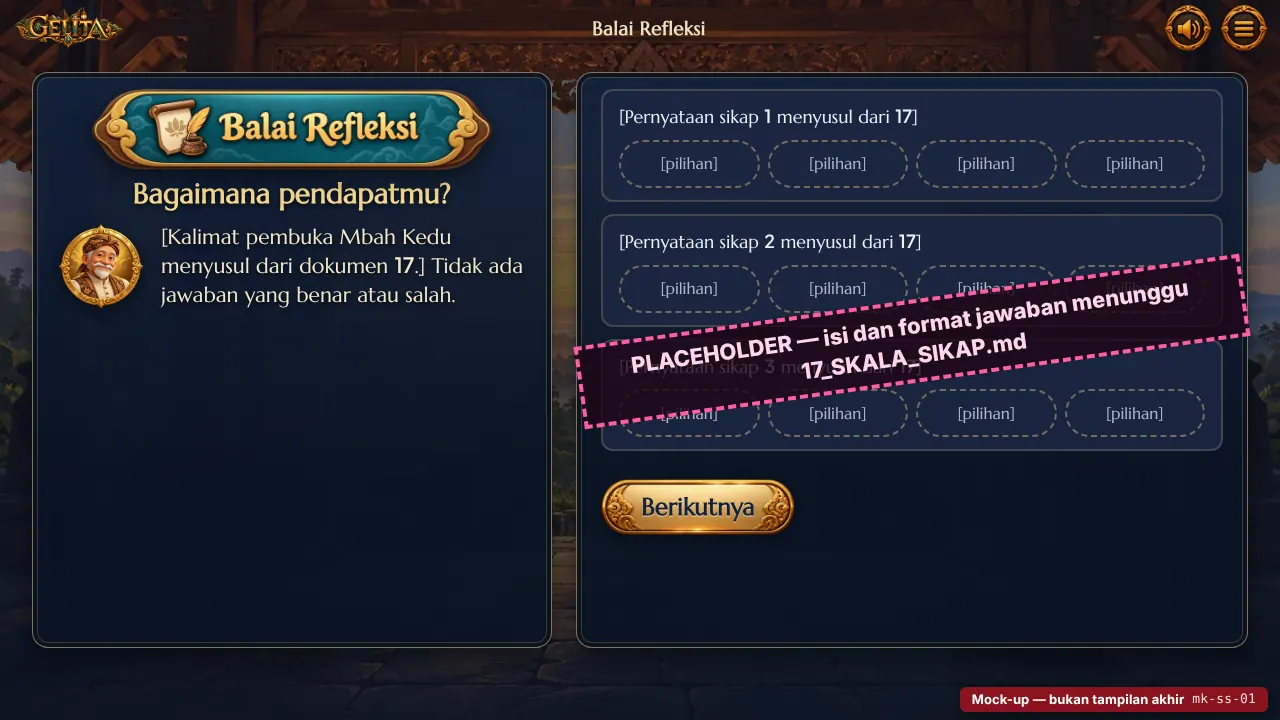
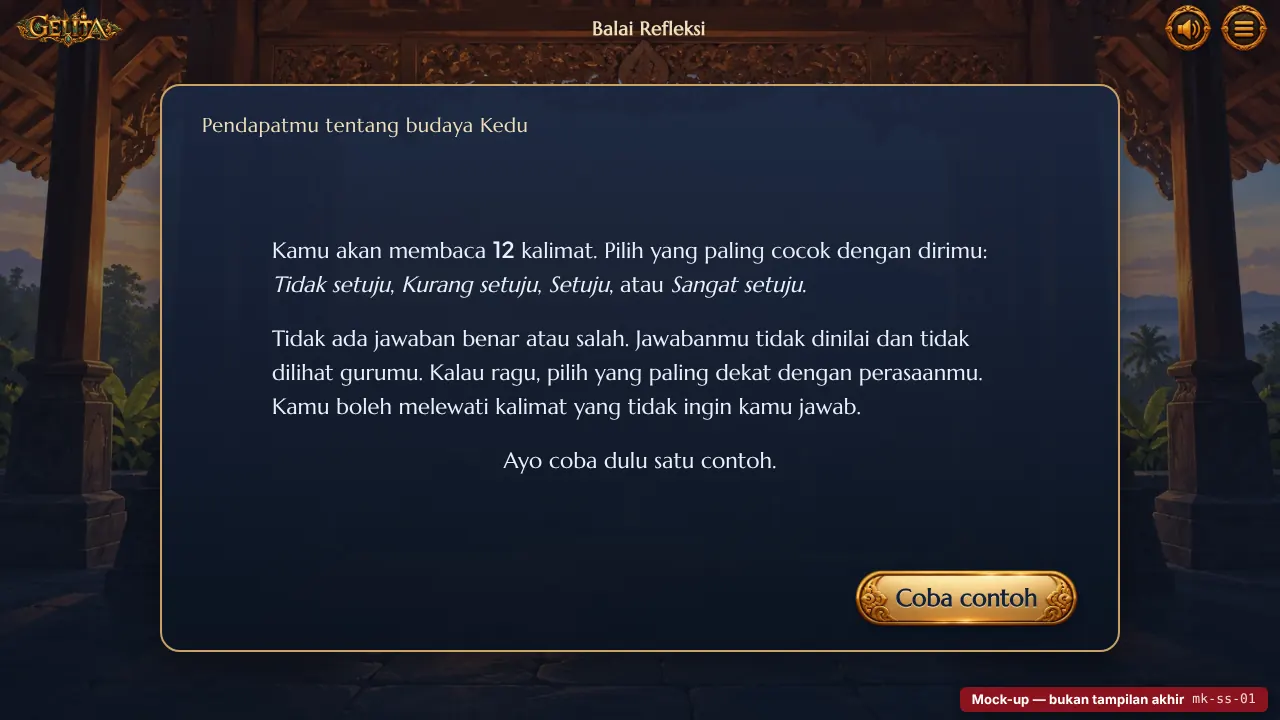
Redraw the attitude-scale mock-up from 17 (mk-ss-01 to mk-ss-04)
17 is merged, so the placeholder becomes four screens in its format:
instructions, the practice item skp-ct-01, statement skp-03 with the
four dotted choices and the bronze progress bar, and the send screen.
18 describes them (26 pictures now); 00, 01, 03, 04, PROGRESS updated.

diff --git a/docs/revisi-10-analitik/gambar/mockup/src/_mock.css b/docs/revisi-10-analitik/gambar/mockup/src/_mock.css
@@ -146,13 +146,33 @@ body:not(.game) > .mock-label { position: fixed; }
 .tk-lock { width: 5rem; height: 5rem; }
 .tk-big { margin: 0; font-size: 1.375rem; line-height: 1.45; }
 
-/* ---------- Balai Refleksi attitude scale (system change 21): placeholder until 17 ---------- */
-.ss-placeholder { position: absolute; z-index: 70; left: calc(576 * var(--dp)); top: calc(300 * var(--dp)); width: calc(672 * var(--dp)); transform: rotate(-8deg); text-align: center; padding: .5rem 1rem; border: .25rem dashed #ff5ea8; background: rgba(30,6,22,.82); color: #ffd6ea; font: 800 1.375rem/1.35 system-ui, sans-serif; }
-.ss-item { display: grid; gap: .5rem; padding: .75rem 1rem; border: .125rem solid var(--line); border-radius: var(--radius); background: var(--surface-2); }
-.ss-item p { margin: 0; font-size: 1.125rem; }
-.ss-scale { display: flex; gap: .5rem; }
-.ss-scale span { flex: 1; display: grid; place-items: center; min-height: 3rem; border: .125rem dashed var(--line-strong); border-radius: 999rem; color: var(--ink-dim); font-size: 1rem; }
-.ss-list { display: grid; gap: .75rem; }
+/* ---------- Balai Refleksi attitude scale (system change 21, 17_SKALA_SIKAP.md) ---------- */
+.ss-card { --x: 160; --y: 84; --w: 960; --h: 568; display: grid; grid-template-rows: auto 1fr auto; padding: 1.5rem 2.5rem 1.5rem; border: .125rem solid var(--gold-600); border-radius: var(--radius-lg); background: linear-gradient(180deg, rgba(27,39,64,.95), rgba(11,19,32,.96)); box-shadow: var(--shadow-2); }
+.ss-top { display: flex; align-items: center; justify-content: space-between; gap: 1.5rem; }
+.ss-eyebrow { margin: 0; color: var(--gold-300); font-family: var(--font-display); font-size: 1.25rem; letter-spacing: .02em; }
+.ss-progress { display: flex; align-items: center; gap: .75rem; color: var(--ink-dim); font-size: 1.125rem; font-variant-numeric: tabular-nums; }
+.ss-track { position: relative; width: 22rem; aspect-ratio: 1200 / 82; background: var(--loading-track) center / 100% 100% no-repeat; filter: drop-shadow(0 .1875rem .25rem rgba(0,0,0,.55)); }
+.ss-track > i { position: absolute; inset: 24.6% auto 27.1% 5.84%; max-width: 88.32%; border-radius: .125rem; background: linear-gradient(to bottom, rgba(255,248,220,.55), rgba(255,248,220,0) 45%, rgba(120,50,0,0) 65%, rgba(120,50,0,.4)), linear-gradient(to right, #B4600F, #F0A43A 55%, #FFD27A); box-shadow: 0 0 .375rem rgba(255,176,64,.85); }
+.ss-tag { padding: .125rem .75rem; border: .125rem solid var(--gold-600); border-radius: 999rem; color: var(--gold-300); font-size: 1rem; }
+.ss-body { display: grid; align-content: center; justify-items: center; gap: 2.5rem; text-align: center; }
+.ss-statement { margin: 0; max-width: 44rem; color: var(--ink); font-family: var(--font-display); font-size: 2.25rem; line-height: 1.3; }
+.ss-choices { display: grid; grid-template-columns: repeat(4, 12rem); gap: 1rem; }
+.ss-choice { display: grid; grid-template-rows: 3.5rem auto; justify-items: center; align-items: center; gap: .5rem; padding: 1rem .5rem .875rem; border: .125rem solid var(--line-strong); border-radius: var(--radius); background: rgba(11,19,32,.55); color: var(--ink); font-size: 1.25rem; font-weight: 700; }
+.ss-choice b { display: block; border-radius: 50%; background: radial-gradient(circle at 35% 30%, #FFE7A8, #DFC087 45%, #9C7a3c); box-shadow: 0 0 0 .125rem rgba(0,0,0,.35); }
+.ss-choice:nth-child(1) b { width: .875rem; height: .875rem; }
+.ss-choice:nth-child(2) b { width: 1.375rem; height: 1.375rem; }
+.ss-choice:nth-child(3) b { width: 2.125rem; height: 2.125rem; }
+.ss-choice:nth-child(4) b { width: 3rem; height: 3rem; }
+.ss-choice.is-picked { border-color: var(--gold-300); background: rgba(223,192,135,.18); box-shadow: 0 0 0 .1875rem var(--glow), 0 0 1rem var(--glow); color: #FFF3C4; }
+.ss-choice.is-picked span::before { content: "● "; }
+.ss-actions { display: grid; grid-template-columns: 1fr auto 1fr; align-items: center; }
+.ss-actions > .btn-plate { justify-self: start; }
+.ss-actions .ss-skip { justify-self: center; color: var(--ink-dim); font-size: 1.125rem; text-decoration: underline; text-underline-offset: .2em; }
+.ss-actions .ss-right { justify-self: end; }
+.ss-intro { margin: 0; max-width: 46rem; color: var(--ink); font-size: 1.375rem; line-height: 1.55; text-align: left; }
+.ss-intro + .ss-intro { margin-top: -1.25rem; }
+.ss-summary { display: grid; gap: .75rem; justify-items: center; }
+.ss-summary img { width: 4.5rem; height: 4.5rem; }
 
 /* ---------- Link scene Kabut di Layar (12, context scenario_open) ---------- */
 .cr-fog { position: absolute; inset: 0; z-index: 1; background: radial-gradient(ellipse at 60% 55%, rgba(220,228,240,.0), rgba(220,228,240,.35) 55%, rgba(200,210,226,.6)); pointer-events: none; }

diff --git a/docs/revisi-10-analitik/gambar/mockup/src/mk-ss-01.html b/docs/revisi-10-analitik/gambar/mockup/src/mk-ss-01.html
@@ -2,7 +2,7 @@
 <html class="game-stage" lang="id">
 <head>
 <meta charset="UTF-8">
-<title>Balai Refleksi: skala sikap (placeholder)</title>
+<title>Skala sikap: petunjuk</title>
 <link rel="stylesheet" href="../../../../../public/assets/css/tokens.css">
 <link rel="stylesheet" href="../../../../../public/assets/css/base.css">
 <link rel="stylesheet" href="../../../../../public/assets/css/stage.css">
@@ -10,33 +10,19 @@
 <link rel="stylesheet" href="../../../../../public/assets/css/game.css">
 <link rel="stylesheet" href="_mock.css">
 </head>
-<!-- Placeholder: the statements and the response format come from 17_SKALA_SIKAP.md (work item 19), not merged yet -->
+<!-- Statements, answer format, and instructions word for word from 17_SKALA_SIKAP.md -->
 <body class="game" data-hud="region-centre" data-region="Balai Refleksi" data-code="mk-ss-01">
 <div class="stage-frame"><div class="stage" id="stage">
   <div class="scene" aria-hidden="true"><img class="scene-img is-visible" src="../../../../../gelita-katalog/assets/latar/bg.reflection.webp" alt=""></div>
   <main id="app" class="stage-main">
-  <section class="reflection">
-    <aside class="reflection-side stage-box">
-      <header class="reflection-hero">
-        <h1 class="reflection-plate"><img src="../../../../../public/assets/ui/btn-reflection.webp" alt="Balai Refleksi"></h1>
-        <p class="reflection-title">Bagaimana pendapatmu?</p>
-        <div class="reflection-speaker">
-          <span class="reflection-avatar"><span class="kedu-portrait has-art"><img class="kedu-avatar" src="../../../../../gelita-katalog/assets/referensi/reference.02.webp" alt=""></span></span>
-          <p class="reflection-words">[Kalimat pembuka Mbah Kedu menyusul dari dokumen 17.] Tidak ada jawaban yang benar atau salah.</p>
-        </div>
-      </header>
-    </aside>
-    <div class="reflection-form stage-box">
-      <div class="ss-list">
-        <div class="ss-item"><p>[Pernyataan sikap 1 menyusul dari 17]</p><div class="ss-scale"><span>[pilihan]</span><span>[pilihan]</span><span>[pilihan]</span><span>[pilihan]</span></div></div>
-        <div class="ss-item"><p>[Pernyataan sikap 2 menyusul dari 17]</p><div class="ss-scale"><span>[pilihan]</span><span>[pilihan]</span><span>[pilihan]</span><span>[pilihan]</span></div></div>
-        <div class="ss-item"><p>[Pernyataan sikap 3 menyusul dari 17]</p><div class="ss-scale"><span>[pilihan]</span><span>[pilihan]</span><span>[pilihan]</span><span>[pilihan]</span></div></div>
-      </div>
-      <div class="form-actions" style="margin-top:1rem"><button class="btn btn-primary btn-lg" type="button">Berikutnya</button></div>
+  <section class="ss" style="--loading-track: url(&quot;../../../../../public/assets/ui/loading-track.webp&quot;)">
+    <div class="ss-card stage-box">
+      <div class="ss-top"><p class="ss-eyebrow">Pendapatmu tentang budaya Kedu</p></div>
+      <div class="ss-body"><p class="ss-intro">Kamu akan membaca 12 kalimat. Pilih yang paling cocok dengan dirimu: <i>Tidak setuju</i>, <i>Kurang setuju</i>, <i>Setuju</i>, atau <i>Sangat setuju</i>.</p><p class="ss-intro">Tidak ada jawaban benar atau salah. Jawabanmu tidak dinilai dan tidak dilihat gurumu. Kalau ragu, pilih yang paling dekat dengan perasaanmu. Kamu boleh melewati kalimat yang tidak ingin kamu jawab.</p><p class="ss-intro">Ayo coba dulu satu contoh.</p></div>
+      <div class="ss-actions"><span></span><span></span><button class="btn btn-primary btn-lg ss-right" type="button"><span>Coba contoh</span></button></div>
     </div>
   </section>
   </main>
-  <div class="ss-placeholder">PLACEHOLDER — isi dan format jawaban menunggu 17_SKALA_SIKAP.md</div>
 </div></div>
 <script src="_mock.js"></script>
 </body>

diff --git a/docs/revisi-10-analitik/gambar/mockup/src/mk-ss-03.html b/docs/revisi-10-analitik/gambar/mockup/src/mk-ss-03.html
@@ -1,0 +1,29 @@
+<!DOCTYPE html>
+<html class="game-stage" lang="id">
+<head>
+<meta charset="UTF-8">
+<title>Skala sikap: satu pernyataan</title>
+<link rel="stylesheet" href="../../../../../public/assets/css/tokens.css">
+<link rel="stylesheet" href="../../../../../public/assets/css/base.css">
+<link rel="stylesheet" href="../../../../../public/assets/css/stage.css">
+<link rel="stylesheet" href="../../../../../public/assets/css/components.css">
+<link rel="stylesheet" href="../../../../../public/assets/css/game.css">
+<link rel="stylesheet" href="_mock.css">
+</head>
+<!-- Statements, answer format, and instructions word for word from 17_SKALA_SIKAP.md -->
+<body class="game" data-hud="region-centre" data-region="Balai Refleksi" data-code="mk-ss-03">
+<div class="stage-frame"><div class="stage" id="stage">
+  <div class="scene" aria-hidden="true"><img class="scene-img is-visible" src="../../../../../gelita-katalog/assets/latar/bg.reflection.webp" alt=""></div>
+  <main id="app" class="stage-main">
+  <section class="ss" style="--loading-track: url(&quot;../../../../../public/assets/ui/loading-track.webp&quot;)">
+    <div class="ss-card stage-box">
+      <div class="ss-top"><p class="ss-eyebrow">Pendapatmu tentang budaya Kedu</p><div class="ss-progress"><div class="ss-track"><i style="width: 22.08%"></i></div><span>3/12</span></div></div>
+      <div class="ss-body"><p class="ss-statement">Belajar tentang candi dan tari itu membosankan.</p><div class="ss-choices"><div class="ss-choice"><b></b><span>Tidak setuju</span></div><div class="ss-choice is-picked"><b></b><span>Kurang setuju</span></div><div class="ss-choice"><b></b><span>Setuju</span></div><div class="ss-choice"><b></b><span>Sangat setuju</span></div></div></div>
+      <div class="ss-actions"><button class="btn-plate is-back" type="button" style="--plate: url(&quot;../../../../../public/assets/ui/plate-back.webp&quot;)"><span>Kembali</span></button><span class="ss-skip">Lewati</span><button class="btn btn-primary btn-lg ss-right" type="button"><span>Lanjut</span></button></div>
+    </div>
+  </section>
+  </main>
+</div></div>
+<script src="_mock.js"></script>
+</body>
+</html>

diff --git a/docs/revisi-10-analitik/gambar/mockup/src/mk-ss-04.html b/docs/revisi-10-analitik/gambar/mockup/src/mk-ss-04.html
@@ -1,0 +1,29 @@
+<!DOCTYPE html>
+<html class="game-stage" lang="id">
+<head>
+<meta charset="UTF-8">
+<title>Skala sikap: layar kirim</title>
+<link rel="stylesheet" href="../../../../../public/assets/css/tokens.css">
+<link rel="stylesheet" href="../../../../../public/assets/css/base.css">
+<link rel="stylesheet" href="../../../../../public/assets/css/stage.css">
+<link rel="stylesheet" href="../../../../../public/assets/css/components.css">
+<link rel="stylesheet" href="../../../../../public/assets/css/game.css">
+<link rel="stylesheet" href="_mock.css">
+</head>
+<!-- Statements, answer format, and instructions word for word from 17_SKALA_SIKAP.md -->
+<body class="game" data-hud="region-centre" data-region="Balai Refleksi" data-code="mk-ss-04">
+<div class="stage-frame"><div class="stage" id="stage">
+  <div class="scene" aria-hidden="true"><img class="scene-img is-visible" src="../../../../../gelita-katalog/assets/latar/bg.reflection.webp" alt=""></div>
+  <main id="app" class="stage-main">
+  <section class="ss" style="--loading-track: url(&quot;../../../../../public/assets/ui/loading-track.webp&quot;)">
+    <div class="ss-card stage-box">
+      <div class="ss-top"><p class="ss-eyebrow">Pendapatmu tentang budaya Kedu</p><div class="ss-progress"><div class="ss-track"><i style="width: 88.32%"></i></div><span>12/12</span></div></div>
+      <div class="ss-body"><div class="ss-summary"><img src="../../../../../public/assets/ui/round-info.webp" alt=""><p class="ss-statement" style="font-size:1.875rem">Kamu sudah menjawab 11 dari 12 kalimat.</p><p class="ss-intro" style="text-align:center">Satu kalimat kamu lewati. Kalau mau, kamu masih bisa kembali dan menjawabnya. Setelah dikirim, jawabanmu tidak bisa diganti lagi.</p></div></div>
+      <div class="ss-actions"><button class="btn-plate is-back" type="button" style="--plate: url(&quot;../../../../../public/assets/ui/plate-back.webp&quot;)"><span>Kembali</span></button><span></span><button class="btn btn-primary btn-lg ss-right" type="button"><span>Kirim</span></button></div>
+    </div>
+  </section>
+  </main>
+</div></div>
+<script src="_mock.js"></script>
+</body>
+</html>

diff --git a/docs/revisi-10-analitik/gambar/mockup/src/mk-ss-02.html b/docs/revisi-10-analitik/gambar/mockup/src/mk-ss-02.html
@@ -1,0 +1,29 @@
+<!DOCTYPE html>
+<html class="game-stage" lang="id">
+<head>
+<meta charset="UTF-8">
+<title>Skala sikap: contoh soal</title>
+<link rel="stylesheet" href="../../../../../public/assets/css/tokens.css">
+<link rel="stylesheet" href="../../../../../public/assets/css/base.css">
+<link rel="stylesheet" href="../../../../../public/assets/css/stage.css">
+<link rel="stylesheet" href="../../../../../public/assets/css/components.css">
+<link rel="stylesheet" href="../../../../../public/assets/css/game.css">
+<link rel="stylesheet" href="_mock.css">
+</head>
+<!-- Statements, answer format, and instructions word for word from 17_SKALA_SIKAP.md -->
+<body class="game" data-hud="region-centre" data-region="Balai Refleksi" data-code="mk-ss-02">
+<div class="stage-frame"><div class="stage" id="stage">
+  <div class="scene" aria-hidden="true"><img class="scene-img is-visible" src="../../../../../gelita-katalog/assets/latar/bg.reflection.webp" alt=""></div>
+  <main id="app" class="stage-main">
+  <section class="ss" style="--loading-track: url(&quot;../../../../../public/assets/ui/loading-track.webp&quot;)">
+    <div class="ss-card stage-box">
+      <div class="ss-top"><p class="ss-eyebrow">Pendapatmu tentang budaya Kedu</p><span class="ss-tag">Contoh</span></div>
+      <div class="ss-body"><p class="ss-statement">Aku suka makan buah.</p><div class="ss-choices"><div class="ss-choice"><b></b><span>Tidak setuju</span></div><div class="ss-choice"><b></b><span>Kurang setuju</span></div><div class="ss-choice is-picked"><b></b><span>Setuju</span></div><div class="ss-choice"><b></b><span>Sangat setuju</span></div></div></div>
+      <div class="ss-actions"><span></span><span class="ss-skip">Lewati</span><button class="btn btn-primary btn-lg ss-right" type="button"><span>Lanjut</span></button></div>
+    </div>
+  </section>
+  </main>
+</div></div>
+<script src="_mock.js"></script>
+</body>
+</html>

diff --git a/docs/revisi-10-analitik/18_MOCKUP_LAYAR_BARU.md b/docs/revisi-10-analitik/18_MOCKUP_LAYAR_BARU.md
@@ -1,8 +1,8 @@
 # Mock-up Layar Baru untuk Ahli Media Langkah 1
 
-Per 26 Oktober 2026 · Daftar kerja no. 20 di [01](01_REVISI_10_ANALITIK.md#peta-jalan-dan-daftar-kerja) · Disusun Claude, disetujui pemilik proyek 26 Oktober 2026 (gambar skala sikap menyusul 17)
+Per 26 Oktober 2026 · Daftar kerja no. 20 di [01](01_REVISI_10_ANALITIK.md#peta-jalan-dan-daftar-kerja) · Disusun Claude, disetujui pemilik proyek 26 Oktober 2026; gambar skala sikap digambar ulang dari 17 di hari yang sama
 
-Dokumen ini menjelaskan 23 gambar mock-up layar baru Revisi 10 di folder [`gambar/mockup/`](gambar/mockup/). Gambar ini bahan ahli media langkah 1 di tahap 2: ahli menilai game yang ada sekarang ditambah rancangan layar baru, karena sistem baru diubah di tahap 3, setelah gerbang G2 (keputusan 25 Oktober 2026). Langkah 2, telaah singkat layar jadi di instalasi uji sebelum uji coba, adalah daftar kerja no. 21 dan bagian gerbang G3.
+Dokumen ini menjelaskan 26 gambar mock-up layar baru Revisi 10 di folder [`gambar/mockup/`](gambar/mockup/). Gambar ini bahan ahli media langkah 1 di tahap 2: ahli menilai game yang ada sekarang ditambah rancangan layar baru, karena sistem baru diubah di tahap 3, setelah gerbang G2 (keputusan 25 Oktober 2026). Langkah 2, telaah singkat layar jadi di instalasi uji sebelum uji coba, adalah daftar kerja no. 21 dan bagian gerbang G3.
 
 Setiap gambar diberi label merah **"Mock-up — bukan tampilan akhir"** dan kodenya (`mk-…`). Instrumen media v1.1 ([07](07_TELAAH_INSTRUMEN_VALIDASI.md#langkah-berikutnya)) bisa menyusun bagian mock-up langsung dari tabel di bawah: satu baris per layar, dengan keadaan yang ditampilkan dan pertanyaan untuk ahli.
 
@@ -14,15 +14,15 @@ Setiap gambar diberi label merah **"Mock-up — bukan tampilan akhir"** dan kode
 | Cari Objek babak 2 *Periksa Unggahan* | `mk-pu-01` … `mk-pu-04` | 4 | 08 (`tmg-4-a01`, `tmg-4-a02`), perubahan sistem no. 17, 18, 20 |
 | Token sesi ringan, layar di luar sesi, layar kecil, panel peneliti | `mk-tk-01` … `mk-tk-05` | 5 | 01 *Token sesi*, perubahan sistem no. 10, 11, 16 |
 | Modul tes dan angket | `mk-mt-01` … `mk-mt-06` | 6 | 13, 14 (`tes-mb-A01`), 16 (ang-01–03, ang-21), perubahan sistem no. 22 |
-| Skala sikap di Balai Refleksi (placeholder) | `mk-ss-01` | 1 | Perubahan sistem no. 21; isinya menunggu `17_SKALA_SIKAP.md` |
+| Skala sikap di Balai Refleksi | `mk-ss-01` … `mk-ss-04` | 4 | [17](17_SKALA_SIKAP.md) (`skp-ct-01`, `skp-03`), perubahan sistem no. 21 |
 | Cerita penghubung dan kartu misi tantangan kelima | `mk-cr-01`, `mk-cr-02` | 2 | 12 (`layar-temanggung-02`, kartu misi `tmg-5`) |
 
-Ukuran gambar 27–111 KB (WebP, jumlah ± 1,6 MB). Semua layar game digambar di panggung 1280 × 720 (16:9), kecuali `mk-tk-04` (jendela ponsel 844 × 390) dan beberapa layar modul yang lebih tinggi karena halamannya bergulir.
+Ukuran gambar 27–111 KB (WebP, jumlah ± 1,7 MB). Semua layar game digambar di panggung 1280 × 720 (16:9), kecuali `mk-tk-04` (jendela ponsel 844 × 390) dan beberapa layar modul yang lebih tinggi karena halamannya bergulir.
 
 ## Cara mock-up dibuat
 
 - **Tampilan game sungguhan** (keputusan pemilik proyek, 26 Oktober 2026). Sumbernya halaman HTML statis di [`gambar/mockup/src/`](gambar/mockup/src/) yang memakai CSS, huruf, dan gambar UI game yang sebenarnya dari `public/assets/` dan `gelita-katalog/assets/`, dengan susunan markup yang sama dengan view game (`_frame`, `boleh`, `cari`, `login`, `mission-brief`, `reflection`). Bagian yang belum ada di game ditulis di `src/_mock.css`. HUD dan label mock-up dibuat `src/_mock.js`.
-- **Isi kata demi kata dari dokumen sumber.** Satu butir nyata per layar diambil dari draf 08, 12, 13, 14, dan 16 tanpa diubah. Teks yang belum ada di dokumen mana pun (pesan galat, pengingat waktu, dan sebagainya) ditandai *draf salinan* di bawah dan didaftar di [Celah yang ditemukan](#celah-yang-ditemukan-di-dokumen-lain).
+- **Isi kata demi kata dari dokumen sumber.** Satu butir nyata per layar diambil dari draf 08, 12, 13, 14, 16, dan 17 tanpa diubah. Teks yang belum ada di dokumen mana pun (pesan galat, pengingat waktu, dan sebagainya) ditandai *draf salinan* di bawah dan didaftar di [Celah yang ditemukan](#celah-yang-ditemukan-di-dokumen-lain).
 - **Gambar ulang.** Jalankan dari akar repo: `node docs/revisi-10-analitik/gambar/mockup/src/render.mjs` (semua) atau dengan nama berkas, misalnya `… render.mjs mk-sd-01`. Skrip memakai Playwright Chromium yang sudah terpasang (jangan `playwright install`) dan Pillow untuk WebP. Sumber ini bisa dipakai lagi di tahap 3 sebagai rujukan tata letak.
 - **Tanpa CDN.** Modul tes meniru gaya bawaan Bootstrap 5 dengan beberapa aturan di `src/_modul.css`. Repo belum punya salinan Bootstrap; perubahan sistem no. 22 menyimpannya lokal di `public/assets/vendor/` saat modul dibangun di tahap 3.
 - **Bukan bagian app.** Tidak ada berkas di `app/` atau `public/` yang berubah.
@@ -137,13 +137,29 @@ Ukuran gambar 27–111 KB (WebP, jumlah ± 1,6 MB). Semua layar game digambar di
 - Apakah pengingat waktu tanpa jam terasa menenangkan, bukan membuat panik?
 - Apakah layar butir risiko daring cukup privat (tanpa warna mencolok atau ilustrasi yang menarik perhatian teman sebelah) dan pilihan "Tidak mau menjawab" mudah ditemukan?
 
-### 5. Skala sikap di Balai Refleksi (`mk-ss-01`, placeholder)
+### 5. Skala sikap di Balai Refleksi (`mk-ss-01` … `mk-ss-04`)
 
-**Tujuannya.** Skala pendamping sikap menjaga warisan diisi sekali di P5, di Balai Refleksi, di luar skor literasi digital (perubahan sistem no. 21; keputusan 25 Oktober 2026).
+**Tujuannya.** Skala pendamping sikap menjaga warisan diisi sekali di P5, di Balai Refleksi, sebelum kritik dan saran, di luar skor literasi digital (perubahan sistem no. 21). Format dan tampilannya mengikuti keputusan pemilik proyek di [17](17_SKALA_SIKAP.md#format-jawaban-dan-tampilan): empat pilihan tanpa titik tengah (*Tidak setuju · Kurang setuju · Setuju · Sangat setuju*), kata dengan titik emas yang makin besar, tanpa wajah; satu pernyataan per layar; urutan tetap; boleh kembali dan melewati sebelum dikirim; bilah kemajuan perunggu; tidak dibacakan.
 
-**Status: placeholder.** `17_SKALA_SIKAP.md` (daftar kerja no. 19) dikerjakan sesi paralel di cabang `r10-skala-sikap` dan belum masuk `main` saat mock-up ini dibuat. Gambar [`mk-ss-01`](gambar/mockup/mk-ss-01.webp) hanya menunjukkan tempat skala di Balai Refleksi (panel kiri dengan papan judul dan Mbah Kedu, panel kanan berisi pernyataan), dengan tulisan besar **PLACEHOLDER**. Pernyataan, jumlah pilihan, dan bentuk pilihannya sengaja dikosongkan. **Gambar ini diperbarui setelah 17 final**, sebelum paket validasi dikirim ke ahli media; sumbernya `src/mk-ss-01.html`.
+**Isi.** Petunjuk layar pertama, contoh soal `skp-ct-01`, dan butir `skp-03` dari 17 kata demi kata. `skp-03` dipilih karena butir negatif (dibalik): di sinilah format tanpa wajah diuji, karena wajah senang di *Setuju* akan memberi isyarat yang keliru.
 
-**Yang dinilai ahli media (setelah diperbarui).** Apakah format jawaban skala mudah dipahami anak, cocok dengan suasana Balai Refleksi, dan tidak terasa seperti tes.
+**Tata letak.** Tampilan game (bukan Bootstrap seperti modul tes), di latar Balai Refleksi, dalam satu kartu biru tua di tengah panggung. Pilihan memakai titik emas berukuran naik di atas katanya; pilihan terpilih bercahaya dan bertanda ●, jadi tidak bergantung pada warna saja. Mbah Kedu dan kalimat pujiannya (`Game.reflectionLead`) **tidak** tampil di layar skala; menurut 17, pujian itu baru tampil setelah skala dikirim. Tidak ada bintang, serpihan, atau umpan balik setelah menjawab.
+
+| Gambar | Keadaan |
+| --- | --- |
+| [`mk-ss-01`](gambar/mockup/mk-ss-01.webp) | Petunjuk layar pertama (judul "Pendapatmu tentang budaya Kedu" dan tiga paragraf dari 17), tombol *Coba contoh* |
+| [`mk-ss-02`](gambar/mockup/mk-ss-02.webp) | Contoh soal "Aku suka makan buah." bertanda *Contoh*, tanpa bilah kemajuan; *Setuju* dipilih; *Lewati* dan *Lanjut* |
+| [`mk-ss-03`](gambar/mockup/mk-ss-03.webp) | Pernyataan 3/12 "Belajar tentang candi dan tari itu membosankan." dengan *Kurang setuju* dipilih, bilah kemajuan 3/12, *Kembali*, *Lewati*, *Lanjut* |
+| [`mk-ss-04`](gambar/mockup/mk-ss-04.webp) | Layar terakhir: berapa pernyataan sudah dijawab (11 dari 12, satu dilewati), *Kembali* atau *Kirim* |
+
+*Draf salinan:* tombol *Coba contoh*, label *Contoh*, dan teks layar kirim ("Kamu sudah menjawab 11 dari 12 kalimat. Satu kalimat kamu lewati. Kalau mau, kamu masih bisa kembali dan menjawabnya. Setelah dikirim, jawabanmu tidak bisa diganti lagi."). 17 hanya menyebut bahwa layar terakhir menunjukkan berapa pernyataan sudah dijawab, lalu *Kirim*.
+
+**Yang dinilai ahli media.**
+- Apakah titik yang makin besar dengan kata di bawahnya mudah dipahami anak sebagai "makin setuju", tanpa wajah?
+- Apakah empat pilihan cukup besar dan terpisah untuk diketuk, dan pilihan terpilih jelas tanpa bergantung pada warna?
+- Apakah *Lewati* cukup terlihat (sesuai prinsip etik) tanpa mengundang siswa melewati semua pernyataan?
+- Apakah layar ini terasa bagian dari Balai Refleksi, dan tidak terasa seperti tes?
+- Apakah pernyataan berukuran besar terbaca nyaman, termasuk pernyataan terpanjang (skp-11, sepuluh kata)?
 
 ### 6. Cerita penghubung dan kartu misi tantangan kelima (`mk-cr-01`, `mk-cr-02`, pelengkap)
 
@@ -160,7 +176,7 @@ Ukuran gambar 27–111 KB (WebP, jumlah ± 1,6 MB). Semua layar game digambar di
 
 Usulan bagian mock-up di instrumen media v1.1 (ditulis di 07 → *Langkah berikutnya*, bukan di dokumen ini):
 
-1. Satu baris penilaian per layar di atas (enam layar), dengan gambar yang disebut dan pertanyaan *Yang dinilai ahli media* sebagai petunjuk butir. Layar 5 dinilai setelah gambarnya diperbarui dari 17.
+1. Satu baris penilaian per layar di atas (enam layar), dengan gambar yang disebut dan pertanyaan *Yang dinilai ahli media* sebagai petunjuk butir. Layar 5 memakai format jawaban dari 17.
 2. Butir A9 dan C10 usulan 07 dinilai pada `mk-pu-01`–`mk-pu-04`.
 3. Untuk layar 4 (modul) dan `mk-tk-05` (panel peneliti), aspek game ditandai "tidak berlaku".
 4. Catatan di sampul: gambar adalah mock-up statis, jadi gerak, suara, waktu muat, dan papan ketik sentuh dinilai di langkah 2 (daftar kerja no. 21) pada layar jadi.
@@ -188,7 +204,7 @@ Putaran 1 (26 Oktober 2026), sebelum menggambar:
 
 Putaran 2 (26 Oktober 2026), setelah melihat gambar:
 
-1. **Gambar disetujui apa adanya** untuk paket ahli media langkah 1. `mk-ss-01` diperbarui setelah 17 final.
+1. **Gambar disetujui apa adanya** untuk paket ahli media langkah 1. `mk-ss-01` diperbarui setelah 17 final (dikerjakan hari yang sama: placeholder diganti empat gambar `mk-ss-01`–`04` dari 17).
 2. **Penjelasan setelah kesempatan Skenario Digital habis: satu kalimat per skenario di 08**, bukan umpan balik pilihan tepat yang dipotong. Ke-24 kalimatnya sudah ditulis di 08, dan `mk-sd-05` sudah digambar ulang dengan kalimat `tmg-5-a02`.
 3. **Lapisan pemeriksaan area ketuk (`mk-pu-02`) ikut dikirim ke ahli media**, bertanda jelas tidak tampil ke siswa.
 4. **Draf salinan di dokumen ini diterima sebagai teks awal.** Kalimat akhirnya ditetapkan di dokumen implementasi, setelah telaah ahli media dan uji keterbacaan dengan anak.

diff --git a/docs/revisi-10-analitik/00_INDEKS.md b/docs/revisi-10-analitik/00_INDEKS.md
@@ -34,7 +34,7 @@ Dokumen lain dibaca per bagian sesuai tugas.
 | [15](15_TES_BAGIAN_DIGITAL.md) | Tes Bagian 2 Aman dan etis (D2) dan Bagian 3 Budaya digital (D3), bentuk A dan B | Draf, `needs_verification` | Cari per kode butir (misalnya `tes-ae-B03`) | 66 KB |
 | [16](16_ANGKET_AKSES_DIGITAL.md) | Angket akses digital dan butir risiko daring P5: butir, kode jawaban, variabel, pelaksanaan, etika | Draf; keputusan pemilik proyek 26 Oktober 2026 (di modul, tidak dibacakan; butir risiko daring di P5); menunggu validasi ahli | Saat menyusun lembar L6, izin etik, atau variabel peserta | 45 KB |
 | [17](17_SKALA_SIKAP.md) | Skala sikap menjaga warisan (pendamping, Balai Refleksi P5): konstruk, kisi-kisi SK1–SK4, 12 butir, format empat pilihan, penskoran, pelaksanaan, validasi, etika, akibat ke dokumen lain | Draf, `needs_verification`; keputusan pemilik proyek 26 Oktober 2026; menunggu validasi ahli | Saat menyusun paket validasi, lembar L1/L3/L7, atau dokumen implementasi perubahan no. 21 | 24 KB |
-| [18](18_MOCKUP_LAYAR_BARU.md) | Mock-up layar baru untuk ahli media langkah 1: Skenario Digital, *Periksa Unggahan*, token, modul tes dan angket, skala sikap (placeholder), cerita penghubung; keadaan per layar dan yang dinilai ahli | Disetujui 26 Oktober 2026; gambar skala sikap menyusul 17 | Saat menyusun instrumen media v1.1, paket validasi media, atau dokumen implementasi layar baru | 24 KB |
+| [18](18_MOCKUP_LAYAR_BARU.md) | Mock-up layar baru untuk ahli media langkah 1: Skenario Digital, *Periksa Unggahan*, token, modul tes dan angket, skala sikap, cerita penghubung; keadaan per layar dan yang dinilai ahli | Disetujui 26 Oktober 2026; gambar skala sikap dari 17 | Saat menyusun instrumen media v1.1, paket validasi media, atau dokumen implementasi layar baru | 24 KB |
 | [19](19_TELAAH_LABEL_BLOOM.md) | Telaah label Bloom pengembang per butir (116 butir literasi digital, 12 PBK), pola sistematis, rentang wilayah baru | Selesai; keputusan pemilik proyek 26 Oktober 2026 masuk 08 dan 06 | Saat menelusuri alasan label Bloom atau menyiapkan B.5a | 25 KB |
 | `gambar/` | Peta bukti, lapis data, peta jalan, buklet, tangkapan layar telaah media, mock-up layar baru (`gambar/mockup/`, sumber HTML di `src/`) | Rujukan | Saat dokumen yang memakainya diubah | — |
 | [dokumen-pendukung-peneliti/](dokumen-pendukung-peneliti/README.md) | Bacaan untuk peneliti dan tim, **bukan dokumen implementasi**: model penelitian dan pengembangan (PDF), dengan rujukan yang dicek ke sumber asli | Rujukan; model Plomp dan aturan I-CVI Lynn diputuskan 26 Oktober 2026 | Saat menulis Bab III atau bagian metodologi; tidak dibaca untuk implementasi | 390 KB (PDF dan sumbernya) |
@@ -52,7 +52,7 @@ Urutan kerja mengikuti peta jalan di 01, yang dikukuhkan pemilik proyek pada 25 
 | [13](13_TES_AWAL_AKHIR.md)–[16](16_ANGKET_AKSES_DIGITAL.md): tes awal–akhir bentuk A dan B, dan angket akses digital | no. 9, 10 | Claude (draf), pemilik proyek | Draf; keputusan pemilik proyek diambil 26 Oktober 2026 ([13](13_TES_AWAL_AKHIR.md#keputusan-pemilik-proyek)); menunggu validasi ahli |
 | [17_SKALA_SIKAP.md](17_SKALA_SIKAP.md): skala sikap menjaga warisan untuk Balai Refleksi | no. 19 | Claude (draf), pemilik proyek | Draf; keputusan pemilik proyek diambil 26 Oktober 2026 ([17](17_SKALA_SIKAP.md#keputusan-pemilik-proyek)); menunggu validasi ahli |
 | [19_TELAAH_LABEL_BLOOM.md](19_TELAAH_LABEL_BLOOM.md): telaah label Bloom | no. 4 | Claude (telaah), pemilik proyek | Selesai (26 Oktober 2026); 08 dan 06 diperbarui |
-| [18_MOCKUP_LAYAR_BARU.md](18_MOCKUP_LAYAR_BARU.md): mock-up layar baru untuk ahli media langkah 1 (23 gambar di `gambar/mockup/`) | no. 20 | Claude (draf), pemilik proyek | Selesai (disetujui 26 Oktober 2026); gambar skala sikap diperbarui setelah 17 final |
+| [18_MOCKUP_LAYAR_BARU.md](18_MOCKUP_LAYAR_BARU.md): mock-up layar baru untuk ahli media langkah 1 (26 gambar di `gambar/mockup/`) | no. 20 | Claude (draf), pemilik proyek | Selesai (disetujui 26 Oktober 2026; gambar skala sikap dari 17) |
 | [02_LEMBAR_LAPANGAN.md](02_LEMBAR_LAPANGAN.md): lembar L0–L7 final | no. 11 | Claude (draf), pemilik proyek | Selesai (disetujui 26 Oktober 2026) |
 | Instrumen validasi r10 v2.1 dan media v1.1 | [07](07_TELAAH_INSTRUMEN_VALIDASI.md#langkah-berikutnya) | | Belum mulai |
 

diff --git a/docs/revisi-10-analitik/04_CATATAN_KEPUTUSAN.md b/docs/revisi-10-analitik/04_CATATAN_KEPUTUSAN.md
@@ -22,7 +22,7 @@ Putaran 2, setelah melihat 23 gambar:
 3. **Lapisan pemeriksaan area ketuk (`mk-pu-02`) ikut dikirim ke ahli media**, bertanda tidak tampil ke siswa.
 4. **Draf salinan di 18** (token keliru, layar kecil, ketukan keliru di *Periksa Unggahan*, pengingat lima menit, kalimat kesempatan habis) **diterima sebagai teks awal**; kalimat akhirnya ditetapkan di dokumen implementasi setelah telaah ahli dan uji keterbacaan.
 
-Akibatnya: 18 ditulis; 00, 01 (daftar kerja no. 20), dan 03 (kode `mk-*`) diperbarui. Atas permintaan pemilik proyek di sesi yang sama, 24 kalimat *Penjelasan setelah kesempatan habis* ditulis di 08 (satu per skenario, dengan aturannya di *Cara membaca*: menyebut risikonya lalu mengapa tindakan tepat aman, tanpa kata "tepat", "salah", atau "gagal", tidak dibacakan, tidak diskor), dan `mk-sd-05` digambar ulang. Kalimatnya ikut validasi ahli bersama bank. Celah lain yang ditemukan dicatat di 18 → *Celah yang ditemukan di dokumen lain*.
+Akibatnya: 18 ditulis; 00, 01 (daftar kerja no. 20), dan 03 (kode `mk-*`) diperbarui. Atas permintaan pemilik proyek di sesi yang sama, 24 kalimat *Penjelasan setelah kesempatan habis* ditulis di 08 (satu per skenario, dengan aturannya di *Cara membaca*: menyebut risikonya lalu mengapa tindakan tepat aman, tanpa kata "tepat", "salah", atau "gagal", tidak dibacakan, tidak diskor), dan `mk-sd-05` digambar ulang. Kalimatnya ikut validasi ahli bersama bank. Setelah 17 masuk `main` (PR #253), placeholder `mk-ss-01` diganti empat gambar `mk-ss-01`–`04` (petunjuk, contoh soal, `skp-03`, layar kirim) dengan format jawaban dari 17, jadi 18 kini memuat 26 gambar. Celah lain yang ditemukan dicatat di 18 → *Celah yang ditemukan di dokumen lain*.
 
 **Keputusan pemilik proyek: pertanyaan terbuka skala sikap** (sesi `r10-skala-sikap`, menjawab pertanyaan terbuka di [17](17_SKALA_SIKAP.md#pertanyaan-yang-masih-terbuka))
 

diff --git a/docs/PROGRESS.md b/docs/PROGRESS.md
@@ -59,7 +59,7 @@ Documentation only, in `docs/revisi-10-analitik/` (Indonesian, at the owner's re
   - [x] 23 WebP mock-ups in `gambar/mockup/` from static HTML on the game's real CSS and UI pictures (sources in `gambar/mockup/src/`, `render.mjs`): Skenario Digital (5 states), *Periksa Unggahan* (4, incl. a tap-area check layer), token and research-mode screens (5, incl. the researcher panel), test and questionnaire module (6), attitude scale (placeholder), link scene and mission card; `03` gets the `mk-*` codes
   - [x] Owner decided two rounds (26 October 2026, `04`): real-game fidelity, all states and token screens, story screens included; pictures approved, the tap-area layer goes to the expert, draft copy accepted as starting text
   - [x] One explanation line per Skenario Digital scenario written in `08` for the tries-exhausted screen (24 lines, rule in *Cara membaca*; owner, 26 October 2026), `mk-sd-05` redrawn; the lines go to expert validation with the bank
-  - [ ] Redraw `mk-ss-01` once `17_SKALA_SIKAP.md` is final
+  - [x] Attitude-scale placeholder replaced once `17` merged (PR #253): `mk-ss-01`–`04` (instructions, practice item, `skp-03`, send screen) in the format from `17`; 26 pictures in all
 - [ ] Complete implementation document, after the revision documents are final and gate G2 (expert validation and ethics approval) is passed
 - [ ] Implementation of the system changes listed in `01` (22 so far), one short-lived branch each, after the implementation document is approved
 

diff --git a/docs/revisi-10-analitik/01_REVISI_10_ANALITIK.md b/docs/revisi-10-analitik/01_REVISI_10_ANALITIK.md
@@ -402,7 +402,7 @@ Ahli media menilai dalam dua langkah (diputuskan 25 Oktober 2026): di tahap 2, g
 | 17 | Uji coba satu kelas dengan semua lembar | 4 | | Belum mulai |
 | 18 | Pra-registrasi skema kesalahan dan rencana analisis di OSF, di gerbang G4 | 4 | | Belum mulai |
 | 19 | Susun skala pendamping sikap menjaga warisan untuk Balai Refleksi, lalu masukkan ke validasi ahli (no. 14) | 1 | Claude (draf), pemilik proyek | Draf di [17](17_SKALA_SIKAP.md); keputusan pemilik proyek 26 Oktober 2026 (12 butir empat pilihan tanpa titik tengah, 4 butir dibalik, hanya di layar, sebelum kritik dan saran); menunggu validasi |
-| 20 | Buat papan cerita atau mock-up layar baru (Skenario Digital, *Periksa Unggahan*, token, modul tes dan angket) untuk ahli media langkah 1 | 1 | Claude (draf), pemilik proyek | Selesai: [18](18_MOCKUP_LAYAR_BARU.md) disetujui 26 Oktober 2026 (23 gambar); gambar skala sikap diperbarui setelah 17 final |
+| 20 | Buat papan cerita atau mock-up layar baru (Skenario Digital, *Periksa Unggahan*, token, modul tes dan angket) untuk ahli media langkah 1 | 1 | Claude (draf), pemilik proyek | Selesai: [18](18_MOCKUP_LAYAR_BARU.md) disetujui 26 Oktober 2026 (26 gambar, termasuk layar skala sikap dari [17](17_SKALA_SIKAP.md)) |
 | 21 | Telaah ahli media langkah 2 pada layar jadi di instalasi uji, sebelum uji coba (G3) | 3 | | Belum mulai |
 
 ## Pertanyaan yang masih terbuka

diff --git a/docs/revisi-10-analitik/03_KODE_DAN_ARTI.md b/docs/revisi-10-analitik/03_KODE_DAN_ARTI.md
@@ -164,7 +164,7 @@ Dari [18](18_MOCKUP_LAYAR_BARU.md). Kode gambar mock-up untuk ahli media langkah
 | mk-pu-01 … 04 | Cari Objek babak 2 *Periksa Unggahan* | 18 |
 | mk-tk-01 … 05 | Token sesi, di luar sesi, layar kecil, panel peneliti | 18 |
 | mk-mt-01 … 06 | Modul tes dan angket | 18 |
-| mk-ss-01 | Skala sikap di Balai Refleksi (placeholder sampai 17 final) | 18 |
+| mk-ss-01 … 04 | Skala sikap di Balai Refleksi: petunjuk, contoh soal, satu pernyataan, layar kirim | 18 |
 | mk-cr-01 … 02 | Cerita penghubung *Kabut di Layar* dan kartu misi tantangan kelima | 18 |
 
 ## Skala sikap menjaga warisan
